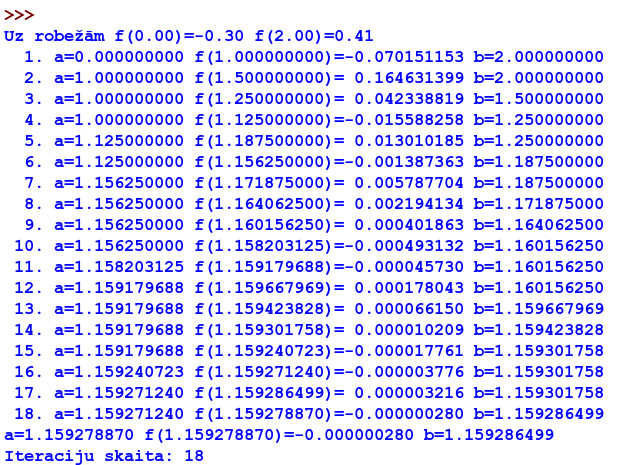
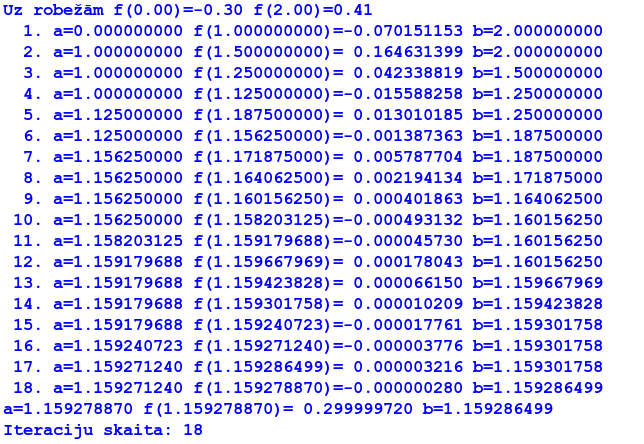
25012018_16_46

diff --git a/FINAL/index.html b/FINAL/index.html
@@ -15,7 +15,10 @@ mediāna
 moda(s)
 </pre>
 <h6>Uzdevuma apraksts (ko es no tā sarotu):</h6>
-<pre>Uzdevuma galvenais mērķis ir ... izmantojot ... piemēram ...</pre>
+<pre>Uzdevuma galvenais mērķis ir uzrakstit skriptu ar kuru palidzibu 
+lvietotais vares sakartot ievaditos skaitlus,apreikinat videju vertibu, 
+maksimslu vertibu,minimalu vertibu un medianu, izmantojot shell komandas 
+piemēram num,echo,sortednum, if  fi un citi.</pre>
 <h6>Attēls(i) ar rezultātiem</h6>
 <a href="https://github.com/Maksims222/DMI/blob/master/statistika.sh">
 <img src="https://github.com/Maksims222/DMI/blob/master/FINAL/statistika.png?raw=true">
@@ -27,7 +30,8 @@ Uzdevumi:
 tabula ar atlikumiem no dalījuma
 </pre>
 <h6>Uzdevuma apraksts (ko es no tā saprotu):</h6>
-<pre>Uzdevuma galvenais mērķis ir izveidot tabulu,kurā radis ievadito skaitli un nakamo 10 skaitļu dalijumu ar skaitliem 1,2,3,4,5,10 izmantojot dazadas Python komandas, piemēram input,while,print.</pre>
+<pre>Uzdevuma galvenais mērķis ir izveidot tabulu,kurā radis ievadito skaitli un nakamo 10
+ skaitļu dalijumu ar skaitliem 1,2,3,4,5,10 izmantojot dazadas Python komandas, piemēram input,while,print.</pre>
 <h6>Attēls(i) ar rezultātiem</h6>
 <a href="https://github.com/Maksims222/DMI/blob/master/lab_1.py">
 <img src="https://github.com/Maksims222/DMI/blob/master/FINAL/table.png?raw=true">
@@ -47,7 +51,8 @@ funkcijas vērtības attēlošana
 summas vērtības attēlošana
 </pre>
 <h6>Uzdevuma apraksts (ko es no tā saprotu):</h6>
-<pre>Uzdevuma galvenais mērķis ir uzrakstit skriptu ar kura palidzibu var apreikinat manu funkciju un uzzimet viņu izmantojot python komandas  piemēram input,if,while,print,def.</pre>
+<pre>Uzdevuma galvenais mērķis ir uzrakstit skriptu ar kura palidzibu var apreikina
+t manu funkciju un uzzimet viņu izmantojot python komandas  piemēram input,if,while,print,def.</pre>
 <h6>Attēls(i) ar rezultātiem</h6>
 <a href="https://github.com/Maksims222/DMI/blob/master/PYTHON/sin_caur_summu.py">
 <img src="https://github.com/Maksims222/DMI/blob/master/FINAL/sin_caur_summu.png?raw=true">
@@ -65,7 +70,8 @@ saknes noteikšana ar dihotomijas metodi
 funkcijas vērtības atrašanas vietas noteikšana ar dihotomijas metodi
 </pre>
 <h6>Uzdevuma apraksts (ko es no tā sarotu):</h6>
-<pre>Uzdevuma galvenais mērķis ir uzimet manas_funkcijas grafiku un atrast saknes ar dihotomijas metodi,  izmantojot python komandas  piemēram if,while,def,print,show un citi.</pre>
+<pre>Uzdevuma galvenais mērķis ir uzrakstit skriptu ar kura palidzibu var  uzimet manas_funkcijas 
+grafiku un atrast saknes ar dihotomijas metodi,  izmantojot python komandas  piemēram if,while,def,print,show un citi.</pre>
 <h6>Attēls(i) ar rezultātiem</h6>
 <a href="https://github.com/Maksims222/DMI/blob/master/PYTHON/dichotomy.py">
 <img src="https://github.com/Maksims222/DMI/blob/master/FINAL/dichotomy.png?raw=true">
@@ -90,7 +96,8 @@ funkcijas pirmās kārtas atvasinājuma skaitliskā noteikšana un zīmēšana
 funkcijas otrās kārtas atvasinājuma skaitliskā noteikšana un zīmēšana
 </pre>
 <h6>Uzdevuma apraksts (ko es no tā sarotu):</h6>
-<pre>Uzdevuma galvenais mērķis ir uzrakstit skriptu ar kuru palidzibu var apreikinat un attalot grafiski dotas funkcijas pirmas un otras kartas atvasinajumu izmantojot python komandas piemēram def,while,for,plot,return,show un citi.</pre>
+<pre>Uzdevuma galvenais mērķis ir uzrakstit skriptu ar kuru palidzibu var apreikinat un attalot grafiski
+ dotas funkcijas pirmas un otras kartas atvasinajumu izmantojot python komandas piemēram def,while,for,plot,return,show un citi.</pre>
 <h6>Attēls(i) ar rezultātiem</h6>
 <a href="https://github.com/Maksims222/DMI/blob/master/PYTHON/derivative.py">
 <img src="https://github.com/Maksims222/DMI/blob/master/FINAL/derivative.png?raw=true">
@@ -107,7 +114,8 @@ gadījuma skaitļu ģenerēšana
 Montekarlo metodes pielietojuma noteikšana
 </pre>
 <h6>Uzdevuma apraksts (ko es no tā sarotu):</h6>
-<pre>Uzdevuma galvenais mērķis ir saprast un sataisit skriptu kas generes gadijuma skaitlus un pilietots Montokarlo metodipi pie funkcijas,izmantojot komandas , piemēram plot,grid,show,append,return un citi.</pre>
+<pre>Uzdevuma galvenais mērķis ir saprast un sataisit skriptu kas generes gadijuma skaitlus un pilietots 
+Montokarlo metodipi pie funkcijas,izmantojot komandas , piemēram plot,grid,show,append,return un citi.</pre>
 <h6>Attēls(i) ar rezultātiem</h6>
 <a href="https://github.com/Maksims222/DMI/blob/master/PYTHON/montekarlo.py">
 <img src="https://github.com/Maksims222/DMI/blob/master/FINAL/montekarlo.png?raw=true">
@@ -129,7 +137,8 @@ Uzdevumi:
 ziņojuma dekodēšana
 </pre>
 <h6>Uzdevuma apraksts (ko es no tā sarotu):</h6>
-<pre>Uzdevuma galvenais mērķis ir saprast ka darbojai dekodešana, un dekodet paraugu izmantojot komandas piemēram hex(ord),chr(ord),while,seek,read un citi.</pre>
+<pre>Uzdevuma galvenais mērķis ir saprast ka darbojai dekodešana, un dekodet paraugu izmantojot komandas
+ piemēram hex(ord),chr(ord),while,seek,read un citi.</pre>
 <h6>Attēls(i) ar rezultātiem</h6>
 <a href="https://github.com/Maksims222/DMI/blob/master/PYTHON/c04.py">
 <img src="https://github.com/Maksims222/DMI/blob/master/FINAL/snapshot2.png?raw=true">
@@ -182,11 +191,11 @@ ziņojuma dekodēšana
 <ul>
 <li><a href="...">shell: skripta neliels apraksts - ...</a></li>
 </ul>
-<li><a href="...">shell: mainīgie</a></li>
-<li><a href="...">shell: datu ievade/izvade</a></li>
-<li><a href="...">shell: operācijas</a></li>
-<li><a href="...">shell: nosacījuma operators</a></li>
-<li><a href="...">shell: cikla operators</a></li>
+<li><a href="https://github.com/Maksims222/DMI/blob/master/shelloperators.sh">shell: mainīgie</a></li>
+<li><a href="https://github.com/Maksims222/DMI/blob/master/dialogs.sh">shell: datu ievade/izvade</a></li>
+<li><a href="https://github.com/Maksims222/DMI/blob/master/shell_programming.sh">shell: operācijas</a></li>
+<li><a href="https://github.com/Maksims222/DMI/blob/master/if_c02.sh">shell: nosacījuma operators</a></li>
+<li><a href="https://github.com/Maksims222/DMI/blob/master/array_loop.sh">shell: cikla operators</a></li>
 <li>Python: Python interpretatora atrašanas vieta - usr/bin/python</li>
 <li>Python: vide ērtam darbam ar Python'u - idle</li>
 <li>Python: Python skripta(u) piemērs(i)</li>
@@ -195,11 +204,11 @@ ziņojuma dekodēšana
 </ul>
 <li><a href="https://github.com/Maksims222/DMI/blob/master/PYTHON/variables.py">Python: mainīgie</a></li>
 <li><a href="https://github.com/Maksims222/DMI/blob/master/PYTHON/dialogs.py">Python: datu ievade/izvade</a></li>
-<li><a href="...">Python: operācijas</a></li>
+<li><a href="https://github.com/Maksims222/DMI/blob/master/PYTHON/hello.py">Python: operācijas</a></li>
 <li><a href="https://github.com/Maksims222/DMI/blob/master/PYTHON/if.py">Python: nosacījuma operators</a></li>
 <li><a href="https://github.com/Maksims222/DMI/blob/master/PYTHON/vertiba_k.py">Python: cikla operators(i)</a></li>
-<li><a href="...">Python: lietotāja funkcija</a></li>
-<li><a href="...">Python: masīvs</a></li>
+<li><a href="https://github.com/Maksims222/DMI/blob/master/PYTHON/sin_caur_summu_ver6.py">Python: lietotāja funkcija</a></li>
+<li><a href="https://github.com/Maksims222/DMI/blob/master/PYTHON/zimeshena.py">Python: masīvs</a></li>
 <li><a href="...">Python: darbs ar failiem</a></li>
 </ul>
 </body>

diff --git a/PYTHON/individual_dichotomy.py b/PYTHON/individual_dichotomy.py
@@ -45,8 +45,9 @@ while b-a > delta_x:
         a = x
     else:
         b = x
+        
 
-print "a=%.9f f(%.9f)=%12.9f b=%.9f"%(a,x,funx,b,)
+print "a=%.9f f(%.9f)=%12.9f b=%.9f"%(a,x,mans_funkcija(x),b,)
 print "Iteraciju skaita: %d"%(k)
 
 
